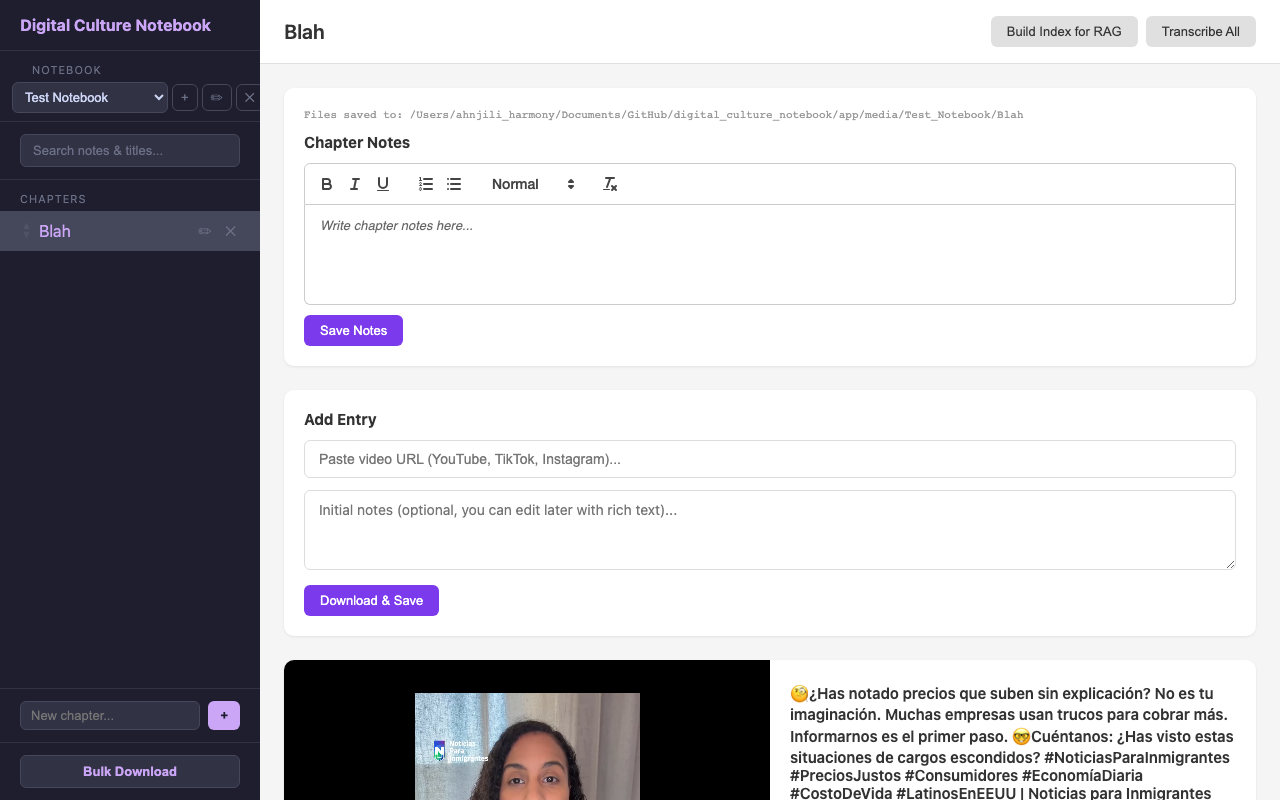
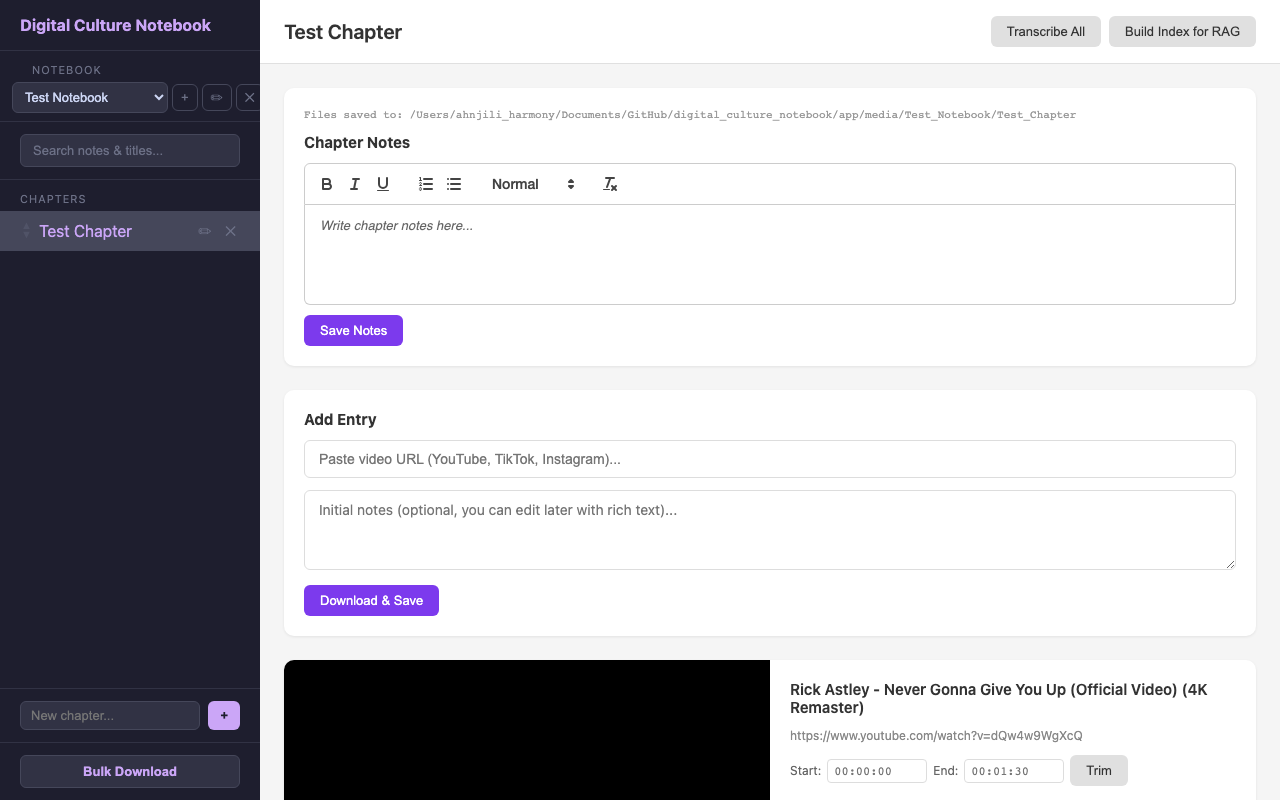
Update screenshots to Test Notebook/Rick Astley, add download timer
- All README screenshots now use Test Notebook / Test Chapter / Rick Astley
- Download progress shows live elapsed timer (12s, 1m 30s, etc.)
- Download complete/timeout messages include elapsed time

diff --git a/app/static/js/app.js b/app/static/js/app.js
@@ -493,7 +493,24 @@ async function addEntry() {
         progressEl.id = "entry-download-progress";
         btn.parentNode.appendChild(progressEl);
     }
-    progressEl.innerHTML = '<div class="download-progress-bar download-progress-pulse"><div class="download-progress-bar-fill"></div></div><div style="font-size:12px;color:#888;margin-top:4px;">Downloading and processing video...</div>';
+    const startTime = Date.now();
+    const timerEl = document.createElement("span");
+    timerEl.id = "download-timer";
+    progressEl.innerHTML = '<div class="download-progress-bar download-progress-pulse"><div class="download-progress-bar-fill"></div></div>';
+    const statusLine = document.createElement("div");
+    statusLine.style.cssText = "font-size:12px;color:#888;margin-top:4px;";
+    statusLine.innerHTML = 'Downloading and processing video... <span id="download-elapsed">0s</span>';
+    progressEl.appendChild(statusLine);
+
+    const timerInterval = setInterval(() => {
+        const elapsed = Math.floor((Date.now() - startTime) / 1000);
+        const el = document.getElementById("download-elapsed");
+        if (el) {
+            const mins = Math.floor(elapsed / 60);
+            const secs = elapsed % 60;
+            el.textContent = mins > 0 ? `${mins}m ${secs}s` : `${secs}s`;
+        }
+    }, 1000);
 
     try {
         const controller = new AbortController();
@@ -512,20 +529,24 @@ async function addEntry() {
 
         if (!res.ok) {
             const err = await res.json();
-            showToast((err.detail || "Download failed", "error"));
+            showToast(err.detail || "Download failed", "error");
             return;
         }
 
+        const elapsed = Math.floor((Date.now() - startTime) / 1000);
+        showToast(`Download complete (${elapsed}s)`, "success");
         urlInput.value = "";
         notesInput.value = "";
         await loadEntries(currentChapterId);
     } catch (e) {
+        const elapsed = Math.floor((Date.now() - startTime) / 1000);
         if (e.name === "AbortError") {
-            showToast("Download timed out. The video may still be downloading — try refreshing in a minute.", "warning");
+            showToast(`Download timed out after ${Math.floor(elapsed/60)}m. The video may still be downloading — try refreshing.`, "warning");
         } else {
-            showToast(e.message, "error");
+            showToast("Error: " + e.message, "error");
         }
     } finally {
+        clearInterval(timerInterval);
         btn.disabled = false;
         btn.textContent = "Download & Save";
         if (progressEl) progressEl.innerHTML = "";
